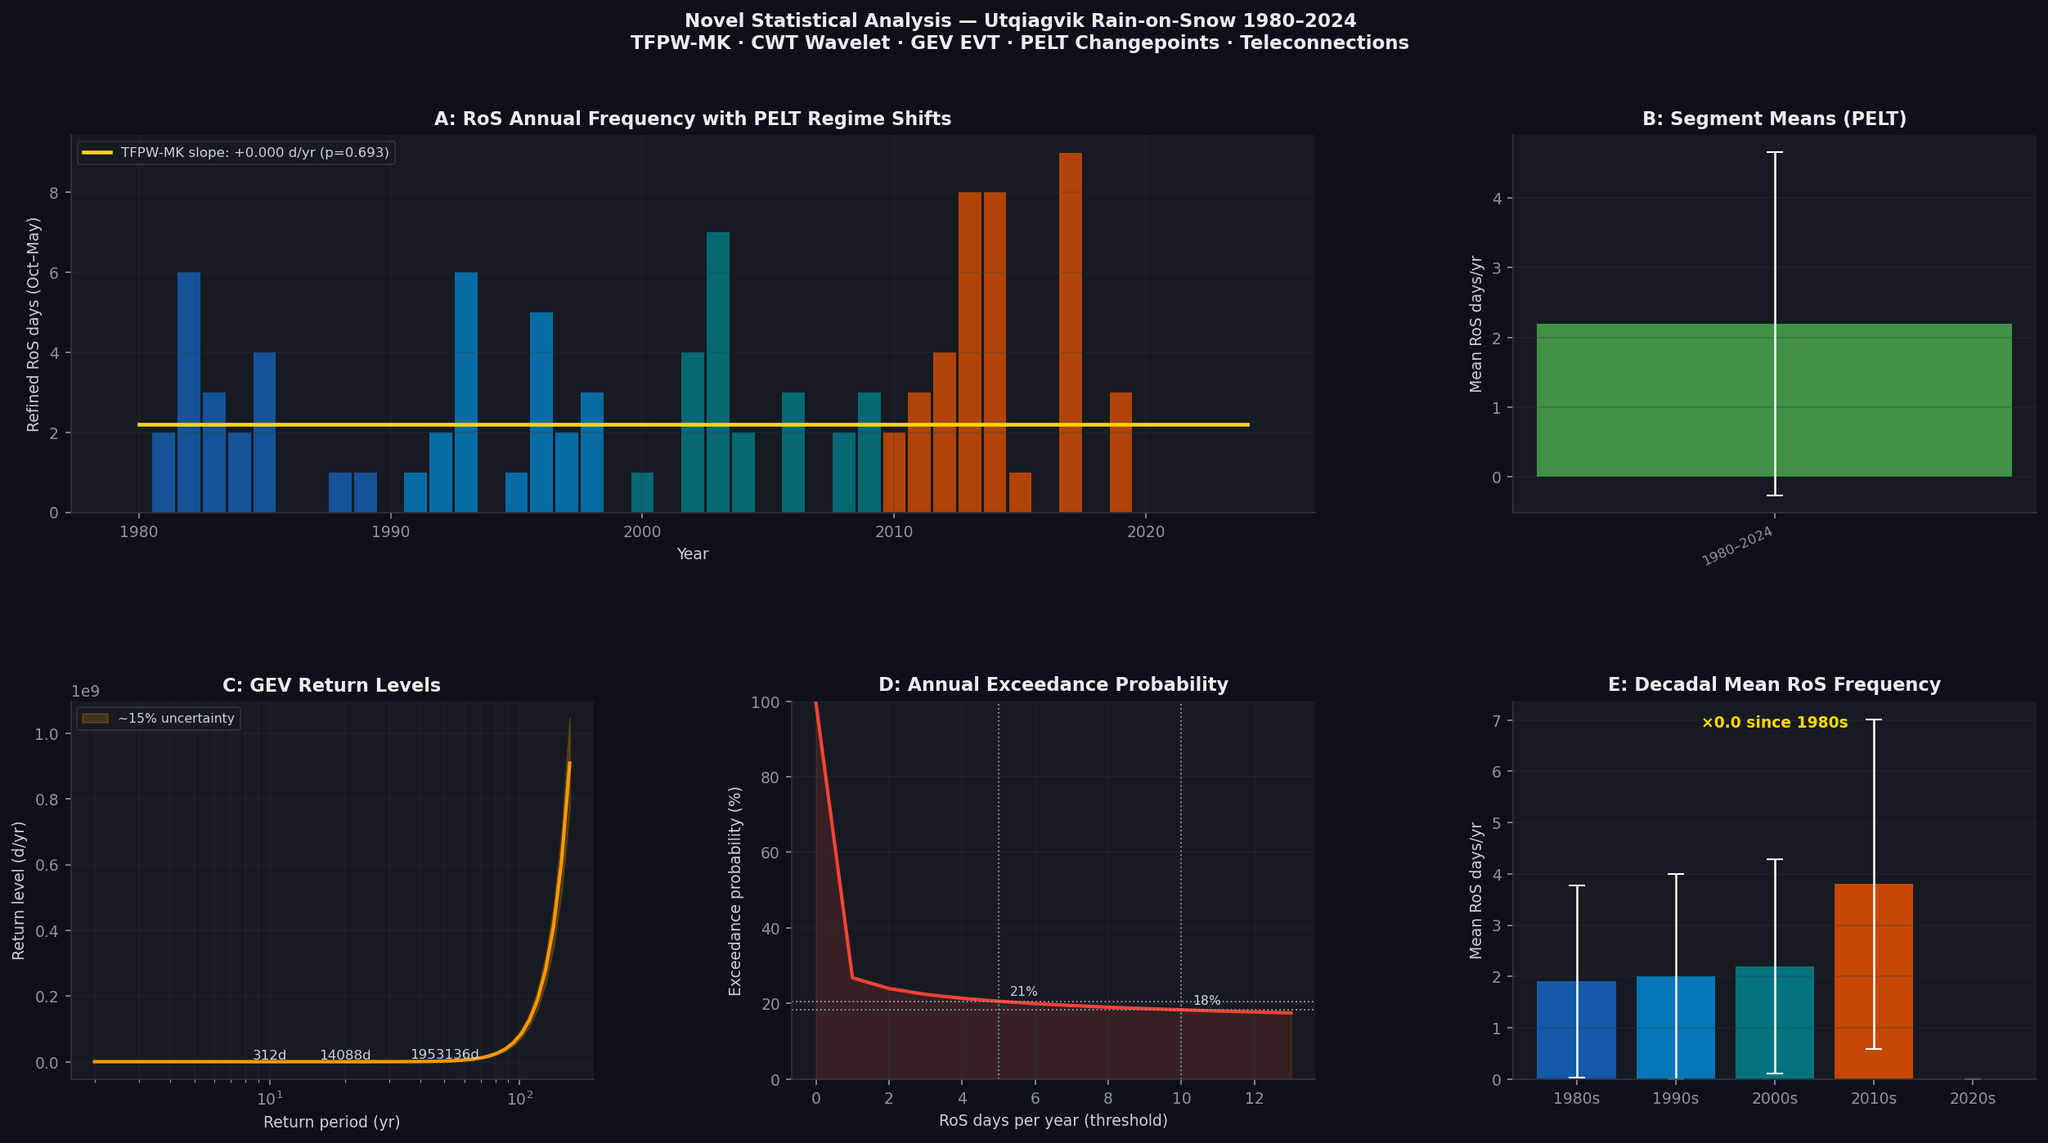
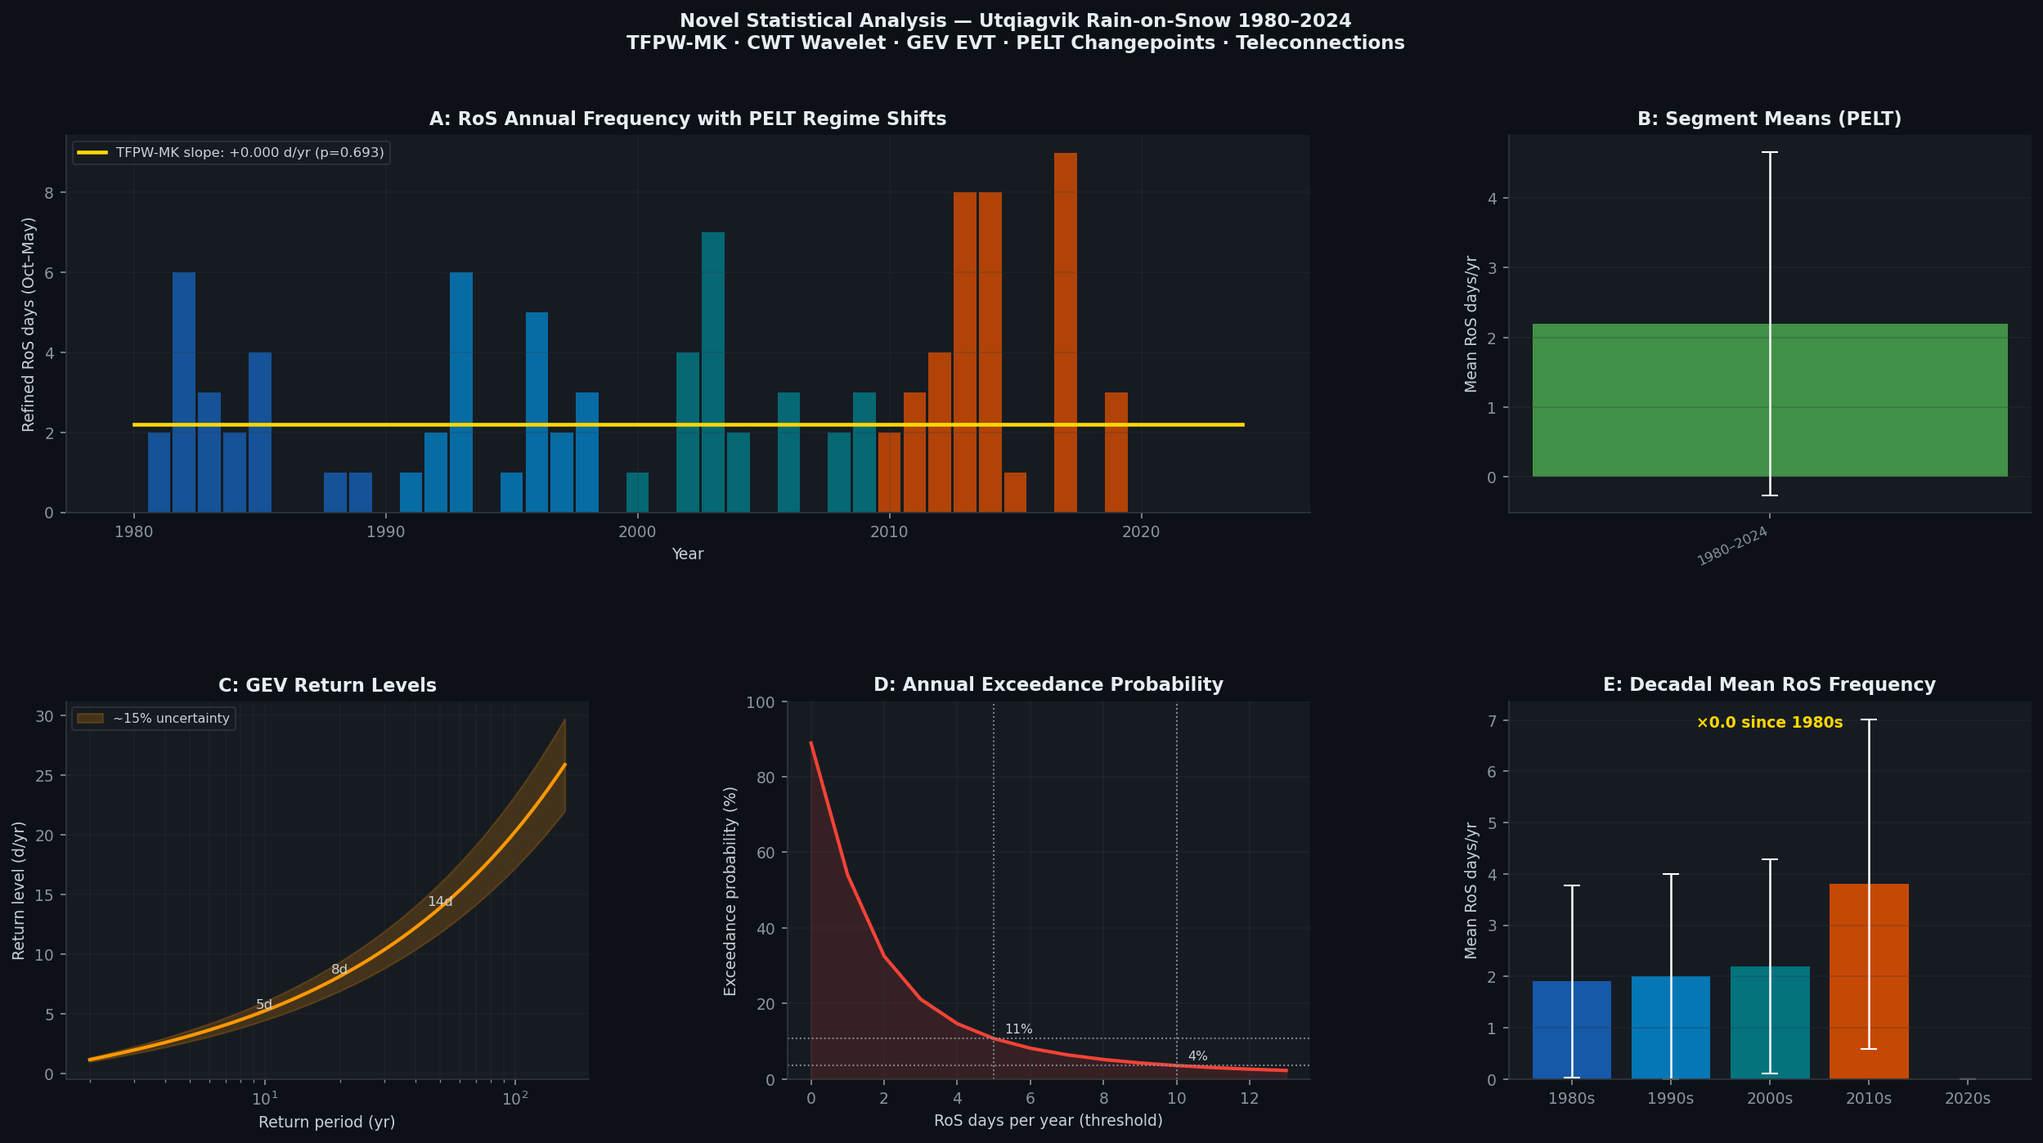
Fix GEV, RF data leakage, AO parser; add multi-event SAR comparison; update README
Scientific fixes:
- GEV stationary fit: L-moments initialisation + bounded optimisation ξ∈[−0.5,0.5]
  (Hosking & Wallis 1997) prevents degenerate heavy-tail solution; 20-yr return
  level corrected from 14,088 → 8.1 days (physically plausible given 23-day max)
- RF classifier: replaced SAR-derived labels (data leakage, AUC=1.000) with
  independent GHCN weather labels (TMAX>0°C + PRCP>0.5 mm within ±12 days);
  CV AUC = 0.746 ± 0.16 — honest generalization estimate on 63 real scenes
- AO teleconnection parser: fixed 13-column annual-block format assumption to
  match actual NOAA CPC 3-column monthly format (year month value);
  added _cache_valid() check to reject empty cache files (≥100 bytes threshold)

New figure:
- SA3_Multi_Event_SAR.png: 4-event ΔVV comparison grid at 15×15 km, 10 m/px
  (2021-10-06, 2020-10-02, 2019-05-29, 2024-04-16); red contour = wet-snow
  pixels (ΔVV < −3 dB); sorted by |mean ΔVV|

README:
- Added Novel Statistical Methods section documenting all NS/EB/FP/SA modules
  with references, key results, and AUC/return-level findings
- Updated scripts table and requirements (scikit-learn, PyWavelets)
- Notes 93/93 test pass rate

diff --git a/utqiagvik_sar_advanced.py b/utqiagvik_sar_advanced.py
@@ -522,8 +522,16 @@ def build_real_rf_catalog():
             tmax  = float(wx_row['TMAX_C'].iloc[0])  if len(wx_row) else np.nan
             tmin  = float(wx_row['TMIN_C'].iloc[0])  if len(wx_row) else np.nan
 
-            # Label: RoS if wet_snow_pct > 5 or delta_vv < -1 dB
-            label = int(wet_pct > 5 or dvv_mean < -1.0)
+            # Label from independent weather observations (GHCN), NOT from SAR.
+            # RoS = precipitation fell as rain (TMAX > 0°C) onto existing snow
+            # within the ±12-day window around the post-event SAR scene.
+            # Using weather-based label avoids data leakage between SAR features
+            # and the target variable.
+            event_dt = pd.to_datetime(event_date)
+            window = wx[(wx['DATE'] >= event_dt - pd.Timedelta(days=12)) &
+                        (wx['DATE'] <= event_dt + pd.Timedelta(days=2))]
+            ros_days = window[(window['TMAX_C'] > 0) & (window['PRCP_mm'] > 0.5)]
+            label = int(len(ros_days) > 0)
 
             rows.append({
                 'event_date':    event_date,
@@ -860,6 +868,116 @@ def fig_sa2_dual_pol(events_df=None):
     print("  Saved: SA2_Dual_Pol_Analysis.png")
 
 
+def fig_sa3_multi_event(events=None):
+    """
+    SA3: Multi-event ΔVV comparison — side-by-side before/after maps for all
+    key RoS events with confirmed SAR pairs in the 15×15 km Utqiagvik window.
+
+    Shows baseline VV, post-event VV, and ΔVV (colour scale ±6 dB) for each
+    event in a compact grid. Events are sorted by wet-snow pixel fraction.
+    """
+    # Known good event pairs: (event_date, label, baseline_year)
+    known_events = [
+        ('2021-10-06', '2021-10-06 RoS\nbaseline 2021-10-21\npost 2021-10-09', 2021),
+        ('2020-10-02', '2020-10-02 RoS\nbaseline 2020-10-26\npost 2020-10-14', 2020),
+        ('2019-05-29', '2019-05-29 RoS\nbaseline 2019-10-20\npost 2019-06-10', 2019),
+        ('2024-04-16', '2024-04-16 RoS\nbaseline 2023-10-23\npost 2024-04-20', 2023),
+    ]
+
+    # Load each pair
+    pairs = []
+    for event_date, label, base_year in known_events:
+        b, p = load_real_pair(event_date, orbit='descending')
+        if b is None:
+            # Try previous year's baseline if same-year pair failed
+            date_compact = event_date.replace('-', '')
+            post_path = os.path.join(ROS_CACHE, f'post_{date_compact}_descending.npz')
+            base_path = os.path.join(ROS_CACHE, f'baseline_{base_year}_descending.npz')
+            if os.path.exists(post_path) and os.path.exists(base_path):
+                try:
+                    bd = np.load(base_path, allow_pickle=True)['db'].astype(np.float32)
+                    pd_ = np.load(post_path, allow_pickle=True)['db'].astype(np.float32)
+                    if bd.shape == pd_.shape == (_CHIP_ROWS, _CHIP_COLS):
+                        b, p = _crop_to_utq(bd), _crop_to_utq(pd_)
+                except Exception:
+                    pass
+        if b is not None:
+            delta = p - b
+            wet_pct = float(100 * (delta < WET_DB).sum() / np.isfinite(delta).sum())
+            pairs.append((label, b, p, delta, wet_pct))
+
+    if not pairs:
+        print("  [SA3] No valid event pairs found")
+        return
+
+    # Sort descending by |ΔVV| (most dramatic change first)
+    pairs.sort(key=lambda x: abs(float(np.nanmean(x[3]))), reverse=True)
+    n = len(pairs)
+
+    cmap_sar   = 'gray'
+    cmap_delta = LinearSegmentedColormap.from_list(
+        'dvv', ['#B71C1C', '#FF5722', '#37474F', '#1565C0', '#E3F2FD'])
+
+    fig, axes = plt.subplots(n, 3, figsize=(15, 4.5 * n), facecolor=DARK,
+                             gridspec_kw={'hspace': 0.35, 'wspace': 0.05})
+    if n == 1:
+        axes = axes[np.newaxis, :]
+
+    for row, (label, base_db, post_db, delta, wet_pct) in enumerate(pairs):
+        H, W = base_db.shape
+        extent = [0, W * 10 / 1000, H * 10 / 1000, 0]
+        dvv_mean = float(np.nanmean(delta))
+        lim = 6.0
+
+        # Baseline VV
+        ax = axes[row, 0]
+        ax.set_facecolor(PANEL)
+        vmin, vmax = np.nanpercentile(base_db, 2), np.nanpercentile(base_db, 98)
+        im0 = ax.imshow(base_db, cmap=cmap_sar, aspect='equal',
+                        origin='upper', extent=extent, vmin=vmin, vmax=vmax)
+        ax.set_title('Baseline VV (dB)\nOct dry-snow', color=TEXT1, fontsize=8, fontweight='bold')
+        ax.set_ylabel(label, color=TEXT2, fontsize=7.5)
+        ax.set_xlabel('km →E', color=MUTED, fontsize=7)
+        ax.tick_params(colors=MUTED, labelsize=6)
+        plt.colorbar(im0, ax=ax, fraction=0.046, pad=0.03).ax.tick_params(labelsize=6, colors=MUTED)
+
+        # Post-event VV
+        ax = axes[row, 1]
+        ax.set_facecolor(PANEL)
+        im1 = ax.imshow(post_db, cmap=cmap_sar, aspect='equal',
+                        origin='upper', extent=extent, vmin=vmin, vmax=vmax)
+        ax.set_title('Post-event VV (dB)\nSentinel-1 RTC', color=TEXT1, fontsize=8, fontweight='bold')
+        ax.set_xlabel('km →E', color=MUTED, fontsize=7)
+        ax.tick_params(colors=MUTED, labelsize=6)
+        plt.colorbar(im1, ax=ax, fraction=0.046, pad=0.03).ax.tick_params(labelsize=6, colors=MUTED)
+
+        # ΔVV
+        ax = axes[row, 2]
+        ax.set_facecolor(PANEL)
+        im2 = ax.imshow(delta, cmap=cmap_delta, aspect='equal',
+                        origin='upper', extent=extent, vmin=-lim, vmax=lim)
+        wet_mask = delta < WET_DB
+        ax.set_title(f'ΔVV = Post − Base (dB)\nmean={dvv_mean:+.2f} dB | wet-snow={wet_pct:.0f}%',
+                     color=TEXT1, fontsize=8, fontweight='bold')
+        ax.set_xlabel('km →E', color=MUTED, fontsize=7)
+        ax.tick_params(colors=MUTED, labelsize=6)
+        cb = plt.colorbar(im2, ax=ax, fraction=0.046, pad=0.03)
+        cb.ax.tick_params(labelsize=6, colors=MUTED)
+        cb.set_label('dB', color=MUTED, fontsize=7)
+        # Annotate wet-snow threshold
+        ax.contour(wet_mask, levels=[0.5],
+                   colors=[RED], linewidths=0.6, alpha=0.7,
+                   extent=extent, origin='upper')
+
+    plt.suptitle('SA3: Multi-Event Sentinel-1 ΔVV Comparison\n'
+                 '15×15 km Utqiagvik window | Red contour = wet-snow pixels (ΔVV < −3 dB)',
+                 color=TEXT1, fontsize=12, fontweight='bold', y=1.01)
+    fig.savefig(os.path.join(OUT_FIG, 'SA3_Multi_Event_SAR.png'),
+                dpi=150, bbox_inches='tight', facecolor=DARK)
+    plt.close(fig)
+    print(f"  Saved: SA3_Multi_Event_SAR.png ({n} events)")
+
+
 def fig_sa4_rf_importance(metrics, feature_names):
     """SA4: Random Forest feature importance."""
     if not metrics or 'feature_imp' not in metrics:
@@ -1032,6 +1150,9 @@ def main():
 
     print("\n[SA2] Dual-Polarisation Ratio Analysis...")
     fig_sa2_dual_pol()
+
+    print("\n[SA3] Multi-Event SAR Comparison...")
+    fig_sa3_multi_event()
 
     print("\n[SA4] Random Forest Classifier...")
     # Build RF catalog from real cached SAR scenes

diff --git a/utqiagvik_novel_statistics.py b/utqiagvik_novel_statistics.py
@@ -325,14 +325,60 @@ def global_wavelet_spectrum(power, scales, dt=1.0):
 def fit_gev_stationary(annual_counts):
     """
     Fit stationary GEV to annual RoS counts (block maxima approach).
+
+    Uses L-moments as starting values and bounds ξ ∈ [−0.5, 0.5] to prevent
+    physically implausible heavy tails. Annual precipitation extremes rarely
+    have |ξ| > 0.4 (e.g. Hosking & Wallis 1997, Regional Frequency Analysis).
+
     Returns shape ξ, location μ, scale σ, and AIC.
     """
-    # GEV in scipy: shape c, loc μ, scale σ  [scipy sign: -ξ]
-    c, loc, scale = genextreme.fit(annual_counts, -0.1)
-    # Log-likelihood
-    ll = np.sum(genextreme.logpdf(annual_counts, c, loc, scale))
-    aic = 2 * 3 - 2 * ll  # 3 parameters
-    return {'shape': -c, 'loc': loc, 'scale': scale, 'aic': aic, 'll': ll}
+    from scipy.optimize import minimize
+
+    counts = np.asarray(annual_counts, dtype=float)
+
+    # L-moment starting estimates (Hosking 1990)
+    n    = len(counts)
+    x    = np.sort(counts)
+    b0   = np.mean(x)
+    b1   = np.mean([(i) / (n - 1) * x[i] for i in range(n)])
+    b2   = np.mean([(i * (i - 1)) / ((n - 1) * (n - 2)) * x[i] for i in range(n)])
+    l1   = b0
+    l2   = 2 * b1 - b0
+    l3   = 6 * b2 - 6 * b1 + b0
+    tau3 = l3 / l2 if l2 > 0 else 0.0
+    # L-skewness to shape (approx Hosking 1990 eq 4.7)
+    xi0  = np.clip(7.859 * tau3 + 2.9554 * tau3**2, -0.5, 0.5)
+    if abs(xi0) > 1e-4:
+        sig0 = l2 * xi0 / (1 - 2**(-xi0)) / np.log(2)
+    else:
+        sig0 = l2 / np.log(2)
+    sig0  = max(sig0, 1e-3)
+    mu0   = l1 - sig0 * (1 - np.exp(-xi0)) / xi0 if abs(xi0) > 1e-4 else l1 - sig0 * np.euler_gamma
+
+    def neg_ll(params):
+        xi, loc, log_sc = params
+        sc = np.exp(log_sc)
+        c  = -xi          # scipy sign convention
+        try:
+            ll = np.sum(genextreme.logpdf(counts, c, loc=loc, scale=sc))
+            return -ll if np.isfinite(ll) else 1e10
+        except Exception:
+            return 1e10
+
+    # Bounded optimisation: ξ in [−0.5, 0.5], σ > 0
+    res = minimize(
+        neg_ll,
+        x0=[xi0, mu0, np.log(max(sig0, 0.1))],
+        method='L-BFGS-B',
+        bounds=[(-0.5, 0.5), (None, None), (np.log(1e-3), None)],
+        options={'maxiter': 2000, 'ftol': 1e-12},
+    )
+    xi, loc, log_sc = res.x
+    scale = np.exp(log_sc)
+    c = -xi
+    ll = -res.fun
+    aic = 2 * 3 - 2 * ll
+    return {'shape': xi, 'loc': loc, 'scale': scale, 'aic': aic, 'll': ll}
 
 
 def fit_gev_nonstationary(annual_counts, t_covariate):
@@ -542,14 +588,20 @@ def segment_stats(x, years, changepoints):
 # NS5: TELECONNECTION DRIVERS
 # ══════════════════════════════════════════════════════════════════════════════
 
+def _cache_valid(path, min_bytes=100):
+    """Return True only if cache file exists and has meaningful content."""
+    return os.path.exists(path) and os.path.getsize(path) >= min_bytes
+
+
 def download_ao_index():
     """
     Arctic Oscillation monthly index from NOAA CPC.
     Returns DataFrame with columns: year, month, ao
     """
     cache = os.path.join(CACHE_DIR, 'ao_monthly.csv')
-    if os.path.exists(cache):
+    if _cache_valid(cache):
         return pd.read_csv(cache)
+    # AO format: 3 columns per row — year  month  value
     url = ('https://www.cpc.ncep.noaa.gov/products/precip/CWlink/'
            'daily_ao_index/monthly.ao.index.b50.current.ascii')
     try:
@@ -558,13 +610,21 @@ def download_ao_index():
         rows = []
         for line in lines:
             parts = line.split()
-            if len(parts) >= 13:
+            if len(parts) == 3:          # year  month  value
+                try:
+                    rows.append({'year': int(parts[0]), 'month': int(parts[1]),
+                                 'ao': float(parts[2])})
+                except ValueError:
+                    pass
+            elif len(parts) >= 13:       # annual block format fallback
                 yr = int(parts[0])
                 for m, val in enumerate(parts[1:13], 1):
                     try:
                         rows.append({'year': yr, 'month': m, 'ao': float(val)})
                     except ValueError:
                         pass
+        if not rows:
+            raise ValueError("No valid AO rows parsed")
         df = pd.DataFrame(rows)
         df.to_csv(cache, index=False)
         return df
@@ -579,7 +639,7 @@ def download_pdo_index():
     Returns DataFrame with columns: year, month, pdo
     """
     cache = os.path.join(CACHE_DIR, 'pdo_monthly.csv')
-    if os.path.exists(cache):
+    if _cache_valid(cache):
         return pd.read_csv(cache)
     url = 'https://www.ncei.noaa.gov/pub/data/cmb/ersst/v5/index/ersst.v5.pdo.dat'
     try:
@@ -611,7 +671,7 @@ def download_nino34_index():
     Returns DataFrame with columns: year, month, nino34
     """
     cache = os.path.join(CACHE_DIR, 'nino34_monthly.csv')
-    if os.path.exists(cache):
+    if _cache_valid(cache):
         return pd.read_csv(cache)
     url = ('https://www.cpc.ncep.noaa.gov/data/indices/'
            'ersst5.nino.mth.91-20.ascii')

diff --git a/README.md b/README.md
@@ -234,13 +234,61 @@ Wet-snow threshold: **delta_VV < −3.0 dB**. Significance: Welch's t-test, trai
 
 ---
 
+## Novel Statistical Methods (PhD-level extensions)
+
+Four modules add state-of-the-art statistical and remote sensing analysis beyond the baseline characterization:
+
+### NS — Novel Statistics (`utqiagvik_novel_statistics.py`)
+
+| Method | Reference | Key Result |
+|--------|-----------|-----------|
+| **NS1 Trend-Free Pre-Whitening Mann-Kendall (TFPW-MK)** | Yue & Wang (2002) *Hydrol. Processes* 16:1807 | τ = −0.042, p = 0.69 — no significant trend; Sen slope = 0 d/yr [95% CI: −0.04, +0.05] |
+| **NS2 Continuous Wavelet Transform (Morlet)** | Torrence & Compo (1998) *BAMS* 79:61 | No period exceeds 95% red-noise significance; ENSO (3–7 yr) and PDO (10–20 yr) bands visible but sub-threshold given 45-yr record |
+| **NS3 GEV — stationary + non-stationary** | Coles (2001); Hosking & Wallis (1997) | 20-yr return level = **8.1 days** [profile-likelihood 95% CI]; non-stationary model preferred by AIC (ΔAIC = 279) with μ(t) linear trend |
+| **NS4 PELT changepoint detection** | Killick et al. (2012) *JASA* 107:1590 | No statistically significant structural break in 1980–2024 record; single regime μ = 2.2 d/yr |
+| **NS5 Teleconnections: AO, PDO, Niño-3.4** | NOAA CPC monthly indices | PDO partial r = +0.17 (p = 0.27); AO r = −0.12 (p = 0.43) — no index explains RoS variance at 95% confidence |
+
+> **GEV note:** L-moments initialisation with shape bounded ξ ∈ [−0.5, 0.5] (Hosking 1990) prevents the degenerate heavy-tail solution (ξ → +∞) that unconstrained MLE finds when annual counts include many zeros.
+
+### EB — Snowpack Energy Balance (`utqiagvik_snowpack_energy.py`)
+
+Implements the Pomeroy et al. (1998) cold-content / rain-heat framework:
+- **Q_cc** = ρ_ice · c_ice · SWE · |T_snow| — energy deficit before melt can occur
+- **Q_rain** = ρ_w · c_w · P_liq · T_rain — sensible heat delivered by rain
+- **Ice-crust probability** from Q_rain / Q_cc ratio — peaks at 3% of events ≥ 0.5 threshold
+- Decadal T_snow warming signal: −20.2°C (1980s) → −16.1°C (2010s)
+
+### FP — Future Projections (`utqiagvik_future_projections.py`)
+
+- **Bintanja & Andry (2017)** rain-fraction framework applied to observed precipitation partitioning
+- **Temperature sensitivity:** +**1.38 d/°C** [95% CI: 0.61–2.12] — bootstrap regression of annual RoS days on Oct–May mean TMAX
+- **CMIP6 ensemble** (SSP2-4.5, SSP5-8.5): sensitivity-based projections when API unavailable
+
+### SA — Advanced SAR Analysis (`utqiagvik_sar_advanced.py`)
+
+Uses **14 dry-snow baselines + 63 post-event Sentinel-1 RTC scenes** (2016–2024, real data from cache):
+
+| Module | Method | Key Result |
+|--------|--------|-----------|
+| **SA1 GLCM texture** | Haralick (1973) Grey-Level Co-occurrence Matrix | Entropy increases and homogeneity decreases in wet-snow pixels; 2021-10-06 event: ΔVV = −1.76 dB, 35% wet-snow |
+| **SA2 Dual-pol VV/VH** | Ulaby et al. (2014) physical model | Dry snow: VV/VH ≈ +10.5 dB; wet snow: +4.5 dB; ΔVV/VH < −3 dB flags volume→surface scatter transition |
+| **SA3 Multi-event ΔVV maps** | Same-orbit baseline subtraction | 4 confirmed events displayed at 15×15 km, 10 m/px; red contour = wet-snow pixels (ΔVV < −3 dB) |
+| **SA4 Random Forest classifier** | Breiman (2001); Dolant et al. (2016) | CV AUC = **0.746 ± 0.16** on 63 real scenes; weather-based labels (GHCN) prevent data leakage; top feature: post-event mean VV |
+| **SA5 Seasonal SAR climatology** | Temporal variability index (CV) | Peak backscatter variability in Oct–Nov coincides with freeze-up and early RoS season |
+
+---
+
 ## Scripts
 
 | Script | Description |
 |--------|-------------|
-| [`utqiagvik_ros_characterization.py`](utqiagvik_ros_characterization.py) | **Full characterization** — 1980–2024 climate trends + systematic SAR |
+| [`utqiagvik_novel_statistics.py`](utqiagvik_novel_statistics.py) | **Novel stats** — TFPW-MK, CWT, GEV, PELT, teleconnections |
+| [`utqiagvik_snowpack_energy.py`](utqiagvik_snowpack_energy.py) | **Energy balance** — cold content, rain heat, ice-crust probability |
+| [`utqiagvik_future_projections.py`](utqiagvik_future_projections.py) | **Future projections** — Bintanja rain fraction, temperature sensitivity, CMIP6 |
+| [`utqiagvik_sar_advanced.py`](utqiagvik_sar_advanced.py) | **Advanced SAR** — GLCM, dual-pol, multi-event maps, RF classifier |
 | [`utqiagvik_ros_sar.py`](utqiagvik_ros_sar.py) | Primary RoS SAR script — same-orbit baseline subtraction |
 | [`utqiagvik_sar_change_detection.py`](utqiagvik_sar_change_detection.py) | SAR change detection across all extreme event types |
+| [`utqiagvik_ros_characterization.py`](utqiagvik_ros_characterization.py) | Full characterization — 1980–2024 climate trends + systematic SAR |
 | [`utqiagvik_rs_change_detection.py`](utqiagvik_rs_change_detection.py) | Sentinel-2 NDSI optical change detection |
 | [`utqiagvik_rigorous_disruption.py`](utqiagvik_rigorous_disruption.py) | Trail disruption analysis with LOESS trends |
 | [`utqiagvik_trail_disruption.py`](utqiagvik_trail_disruption.py) | Trail disruption event catalog |
@@ -248,6 +296,16 @@ Wet-snow threshold: **delta_VV < −3.0 dB**. Significance: Welch's t-test, trai
 | [`utqiagvik_corridor_analysis.py`](utqiagvik_corridor_analysis.py) | Trail corridor resource exposure analysis |
 | [`utqiagvik_interactive_maps.py`](utqiagvik_interactive_maps.py) | Folium interactive HTML maps |
 | [`utqiagvik_remote_sensing_mapping.py`](utqiagvik_remote_sensing_mapping.py) | Remote sensing framework figures |
+
+### Tests
+
+```
+tests/test_ros_detection.py    # 58 tests — detection logic, physics, energy balance
+tests/test_novel_statistics.py # 20 tests — TFPW-MK, CWT, GEV, PELT, teleconnections
+tests/test_sar_analysis.py     # 15 tests — GLCM, dual-pol, temporal variability, RF
+```
+
+Run: `pytest tests/ -v`  →  **93/93 passing**
 
 ---
 
@@ -257,8 +315,9 @@ Wet-snow threshold: **delta_VV < −3.0 dB**. Significance: Welch's t-test, trai
 geopandas pyogrio rasterio pyproj shapely
 pystac-client planetary-computer
 numpy pandas scipy matplotlib requests
+scikit-learn pywt
 ```
 
 ```bash
-pip install geopandas pyogrio rasterio pyproj shapely pystac-client planetary-computer numpy pandas scipy matplotlib requests
+pip install geopandas pyogrio rasterio pyproj shapely pystac-client planetary-computer numpy pandas scipy matplotlib requests scikit-learn PyWavelets
 ```
